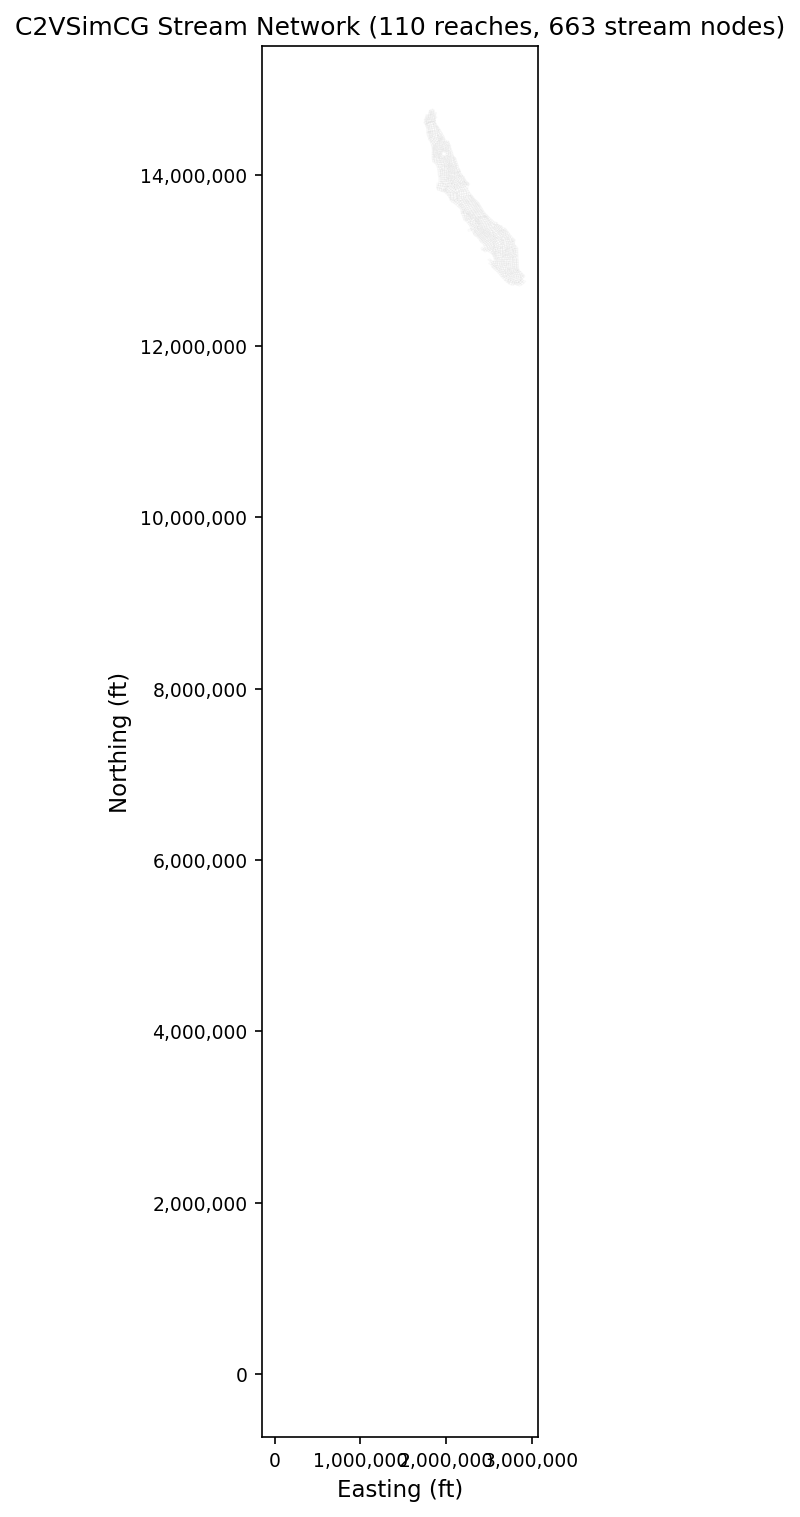
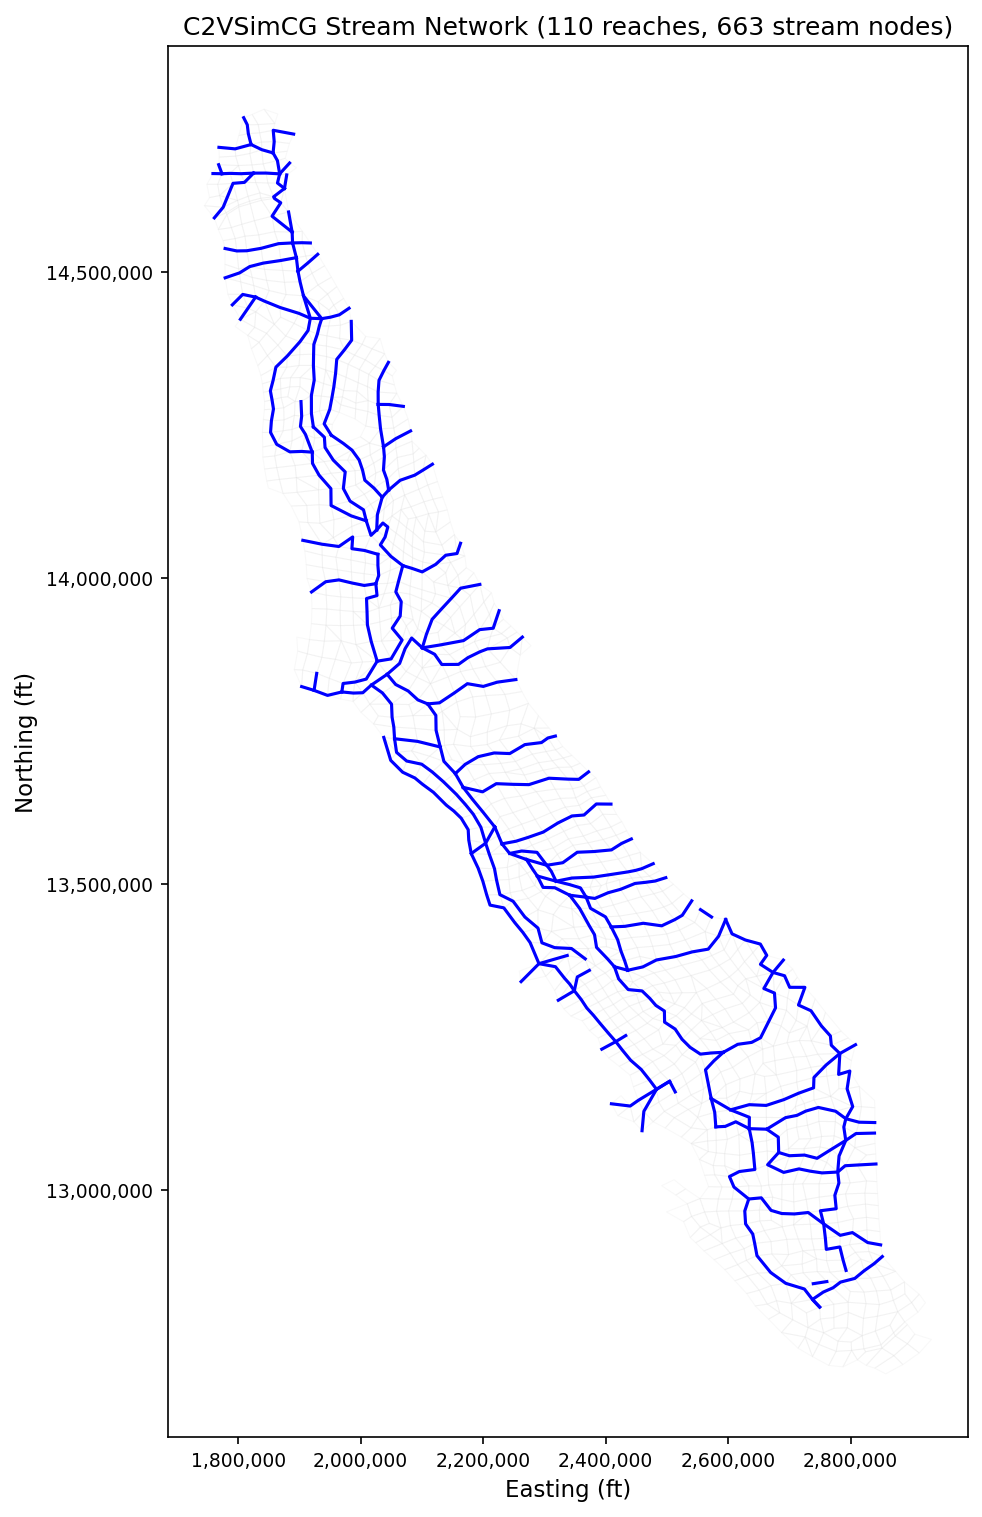
Fix stream network coordinates and subregion colormap in tutorial figures
Resolve stream node x,y from associated GW nodes when they are (0,0),
which is the IWFM convention for stream nodes. Switch subregion colormap
from Set3 (12 colors) to tab20 (20 colors) for better distinction across
all 21 C2VSimCG subregions.

diff --git a/docs/scripts/generate_tutorial_figures.py b/docs/scripts/generate_tutorial_figures.py
@@ -107,7 +107,7 @@ def generate_subregions(model: IWFMModel, output_dir: Path) -> None:
     fig, ax = plot_elements(
         model.mesh,
         color_by="subregion",
-        cmap="Set3",
+        cmap="tab20",
         alpha=0.7,
         figsize=(10, 10),
     )
@@ -119,6 +119,17 @@ def generate_subregions(model: IWFMModel, output_dir: Path) -> None:
     print("  Saved subregions.png")
 
 
+def _fix_stream_coords(model: IWFMModel) -> None:
+    """Resolve stream node x,y from associated GW nodes when they are (0,0)."""
+    assert model.mesh is not None and model.streams is not None
+    for node in model.streams.nodes.values():
+        if node.x == 0 and node.y == 0 and node.gw_node is not None:
+            gw = model.mesh.nodes.get(node.gw_node)
+            if gw is not None:
+                node.x = gw.x
+                node.y = gw.y
+
+
 def generate_streams(model: IWFMModel, output_dir: Path) -> None:
     """streams.png -- stream network overlaid on mesh."""
     from pyiwfm.visualization.plotting import plot_mesh, plot_streams
@@ -128,6 +139,8 @@ def generate_streams(model: IWFMModel, output_dir: Path) -> None:
         return
 
     assert model.mesh is not None
+    _fix_stream_coords(model)
+
     fig, ax = plot_mesh(
         model.mesh,
         show_edges=True,
